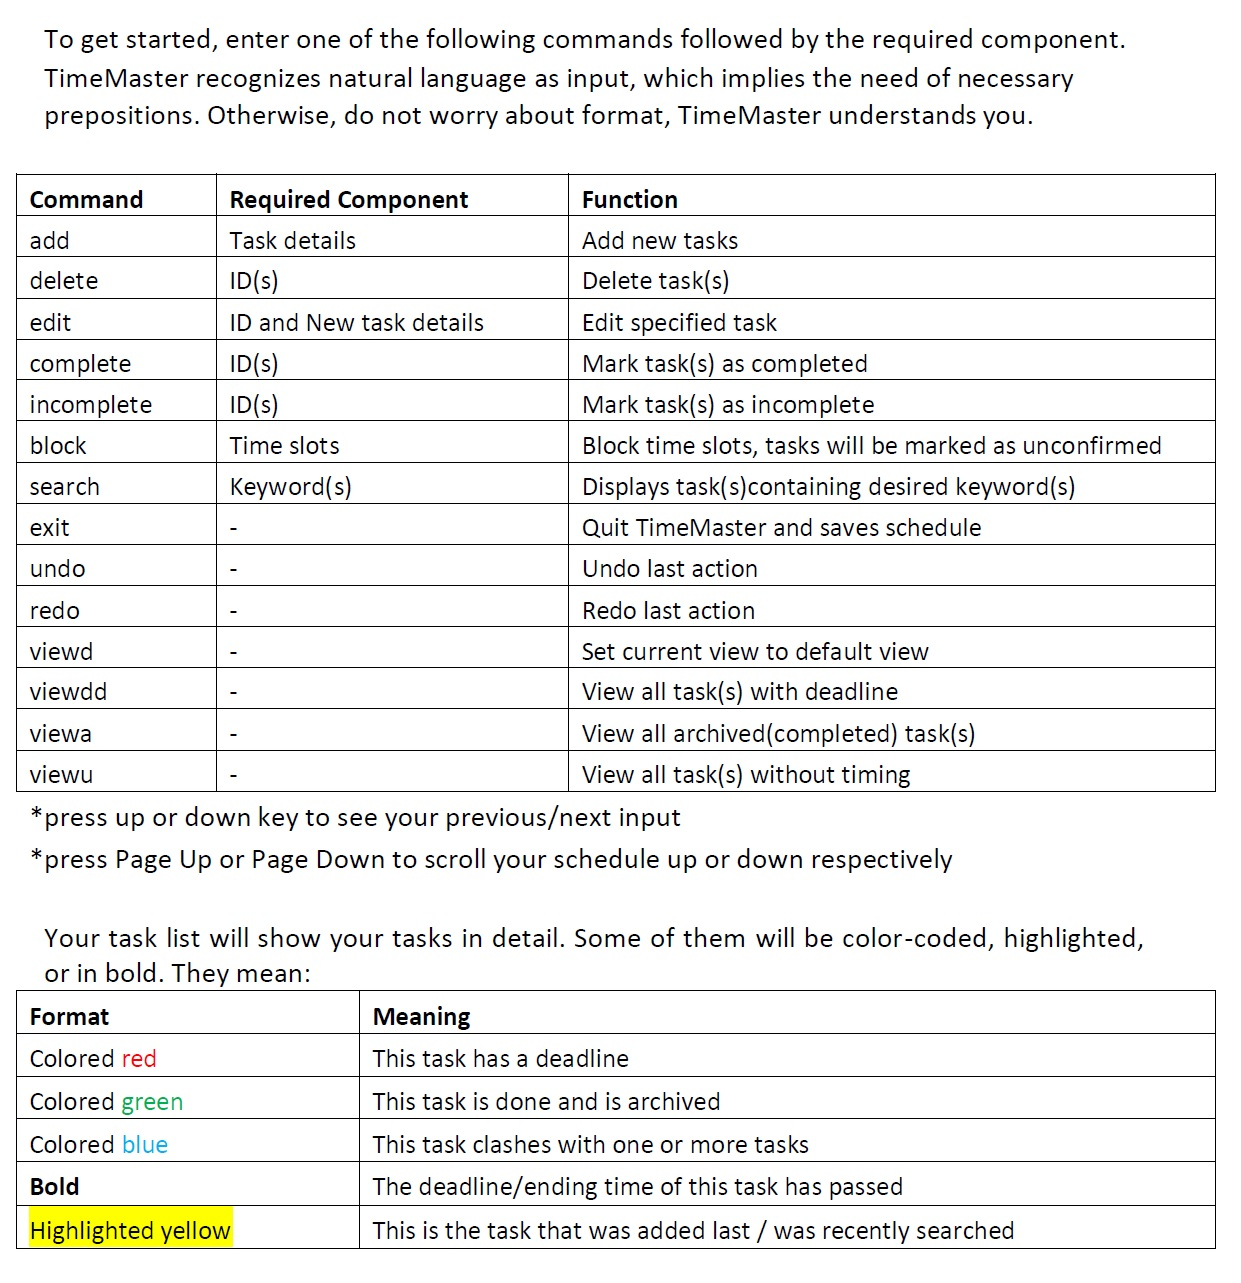
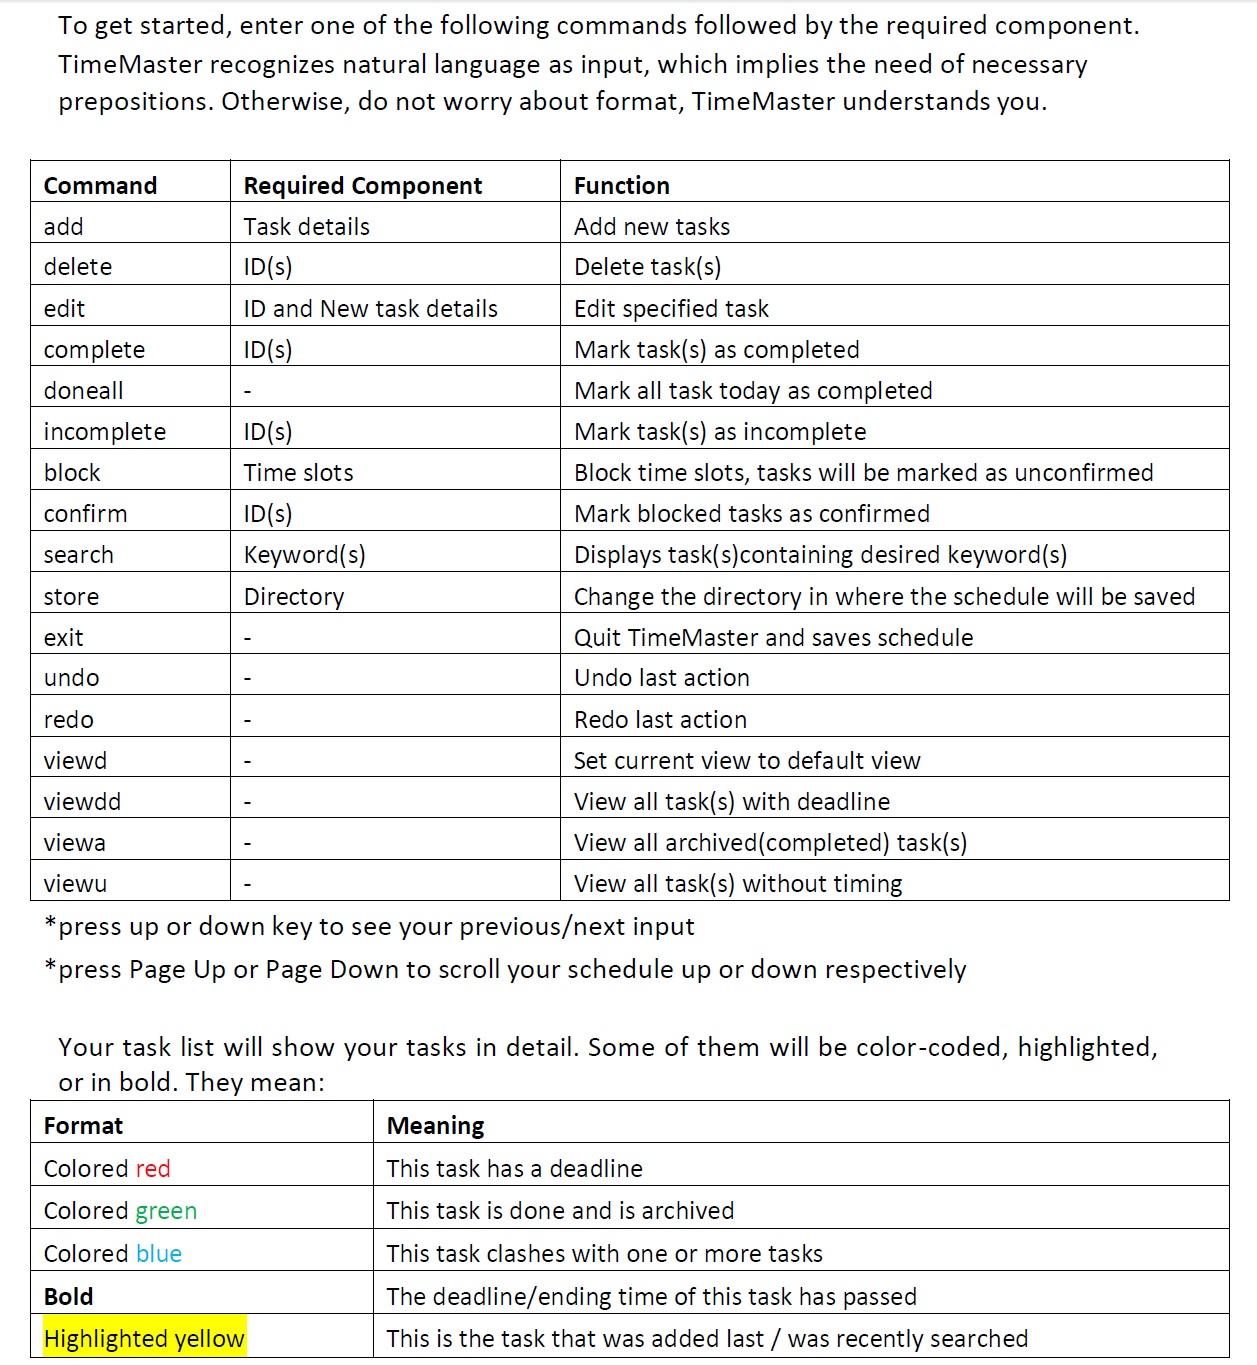
improved help, refactored GUI

Changed region(s): [[0.0, 0.0, 0.9799, 0.9977], [0.9492, 0.8106, 0.9799, 0.9977]]

diff --git a/TMGUI/TMGUserInterface.h b/TMGUI/TMGUserInterface.h
@@ -64,9 +64,9 @@ namespace TMGUI {
 		static String^ DISPLAY_DUE_DATE = "Due Date: ";
 		static String^ DISPLAY_DUE_TIME = "Due Time: ";
 		static String^ DISPLAY_INVALID = "Invalid time, please re-enter task time.";
-		static String^ DISPLAY_BLANK = "";
+		static String^ BLANK = "";
 		static String^ LOAD_SUCCESS = "Existing schedule detected. Database is successfully loaded.";
-		static String^ DISPLAY_COMMANDS = "Commands : (A)dd - (D)elete - (E)dit - (C)omplete - (U)ndo - (Se)arch";
+		static String^ DISPLAY_COMMANDS = "Commands : (A)dd - (D)elete - (E)dit - (C)omplete - (U)ndo - (R)edo - (V)iew - (Se)arch";
 		static String^ INPUT_SEARCH = "se";
 		static String^ INPUT_VIEW = "v";
 		static String^ INPUT_QUIT = "quit";
@@ -74,6 +74,8 @@ namespace TMGUI {
 		static String^ INPUT_QUIT_SHORT = "q";
 		static String^ INPUT_BLOCK = "b";
 		static String^ INPUT_CLOSE = "close";
+		static String^ INPUT_SAVE_AT = "st";
+		static String^ INSTRUCTION_SAVE_AT = "Enter save directory";
 		static String^ INSTRUCTION_BLOCK = "Enter timeslots/dates to block separated by 'and'";
 		static String^ INSTRUCTION_VIEW = "viewd to see default view\nviewdd to see deadlined tasks\nviewa to see archived tasks\nviewu to see undated tasks";
 		static String^ INSTRUCTION_SEARCH = "Enter search keyword";
@@ -314,16 +316,16 @@ namespace TMGUI {
 			defaultEntry = gcnew ListViewItem(Convert::ToString(index));
 			defaultEntry->SubItems->Add(gcnew String(( (taskList[taskPosition].getTaskDescription()).c_str() )));
 			if(taskList[taskPosition].getTaskType() == TaskType ::WithEndDateTime){
-				defaultEntry->SubItems->Add(DISPLAY_BLANK);
-				defaultEntry->SubItems->Add(DISPLAY_BLANK); 
+				defaultEntry->SubItems->Add(BLANK);
+				defaultEntry->SubItems->Add(BLANK); 
 			} else{
 				defaultEntry->SubItems->Add(gcnew String(( (taskList[taskPosition].getTaskTime().getStartDate()).c_str() )));
 				defaultEntry->SubItems->Add(gcnew String(( (taskList[taskPosition].getTaskTime().getStartTime()).c_str() )));
 			}
 				
 			if(taskList[taskPosition].getTaskType() == TaskType ::WithStartDateTime){
-				defaultEntry->SubItems->Add(DISPLAY_BLANK);
-				defaultEntry->SubItems->Add(DISPLAY_BLANK); 
+				defaultEntry->SubItems->Add(BLANK);
+				defaultEntry->SubItems->Add(BLANK); 
 			} else{
 				defaultEntry->SubItems->Add(gcnew String(( (taskList[taskPosition].getTaskTime().getEndDate()).c_str() )));
 				defaultEntry->SubItems->Add(gcnew String(( (taskList[taskPosition].getTaskTime().getEndTime()).c_str() )));
@@ -649,7 +651,7 @@ namespace TMGUI {
 private: System::Void userInput_TextChanged(System::Object^  sender, System::EventArgs^  e) {
 			 TMExecutor* exe = TMExecutor::getInstance();
 		
-			 if(userInput->Text == ""){
+			 if(userInput->Text == BLANK){
 				 if(exe->getResultOfExecution() == ""){
 					 statusDisplay->Text = DISPLAY_COMMANDS;
 				 }
@@ -662,6 +664,8 @@ private: System::Void userInput_TextChanged(System::Object^  sender, System::Eve
 				 statusDisplay->Text = INSTRUCTION_VIEW;
 			 } else if(userInput->Text == INPUT_BLOCK){
 				 statusDisplay->Text = INSTRUCTION_BLOCK;
+			 } else if(userInput->Text == INPUT_SAVE_AT){
+				 statusDisplay->Text = INSTRUCTION_SAVE_AT;
 			 }
 		 }
 
